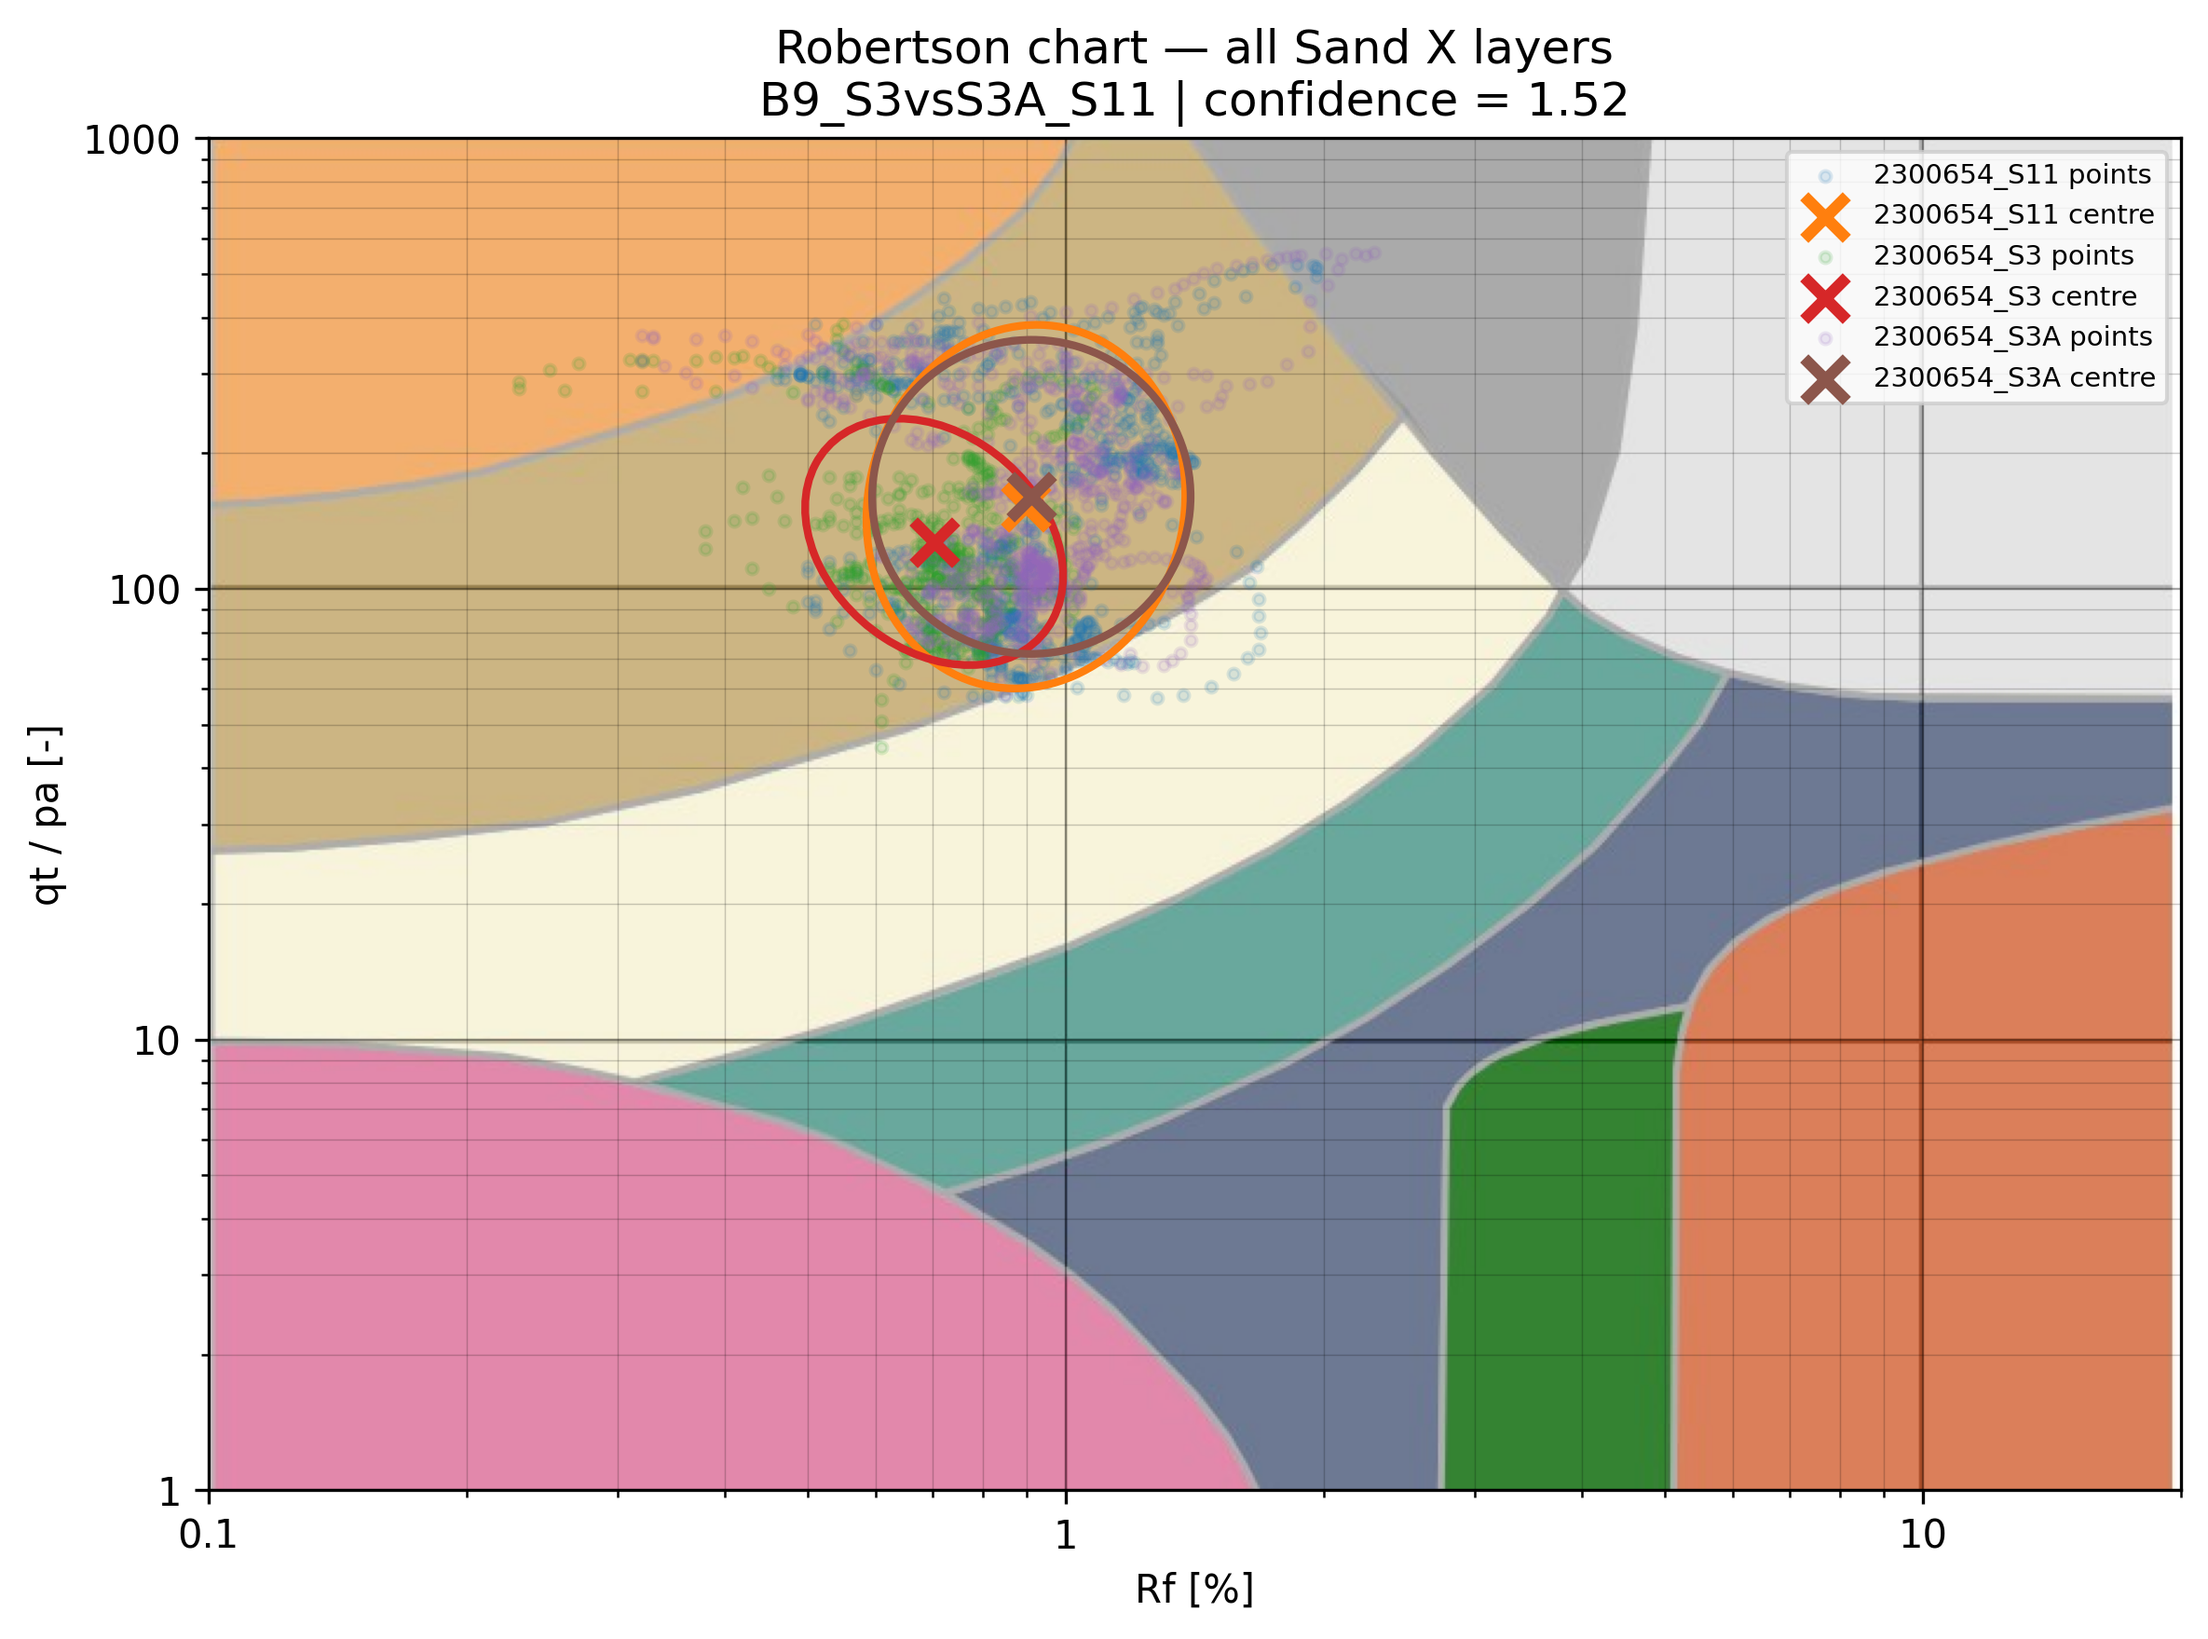
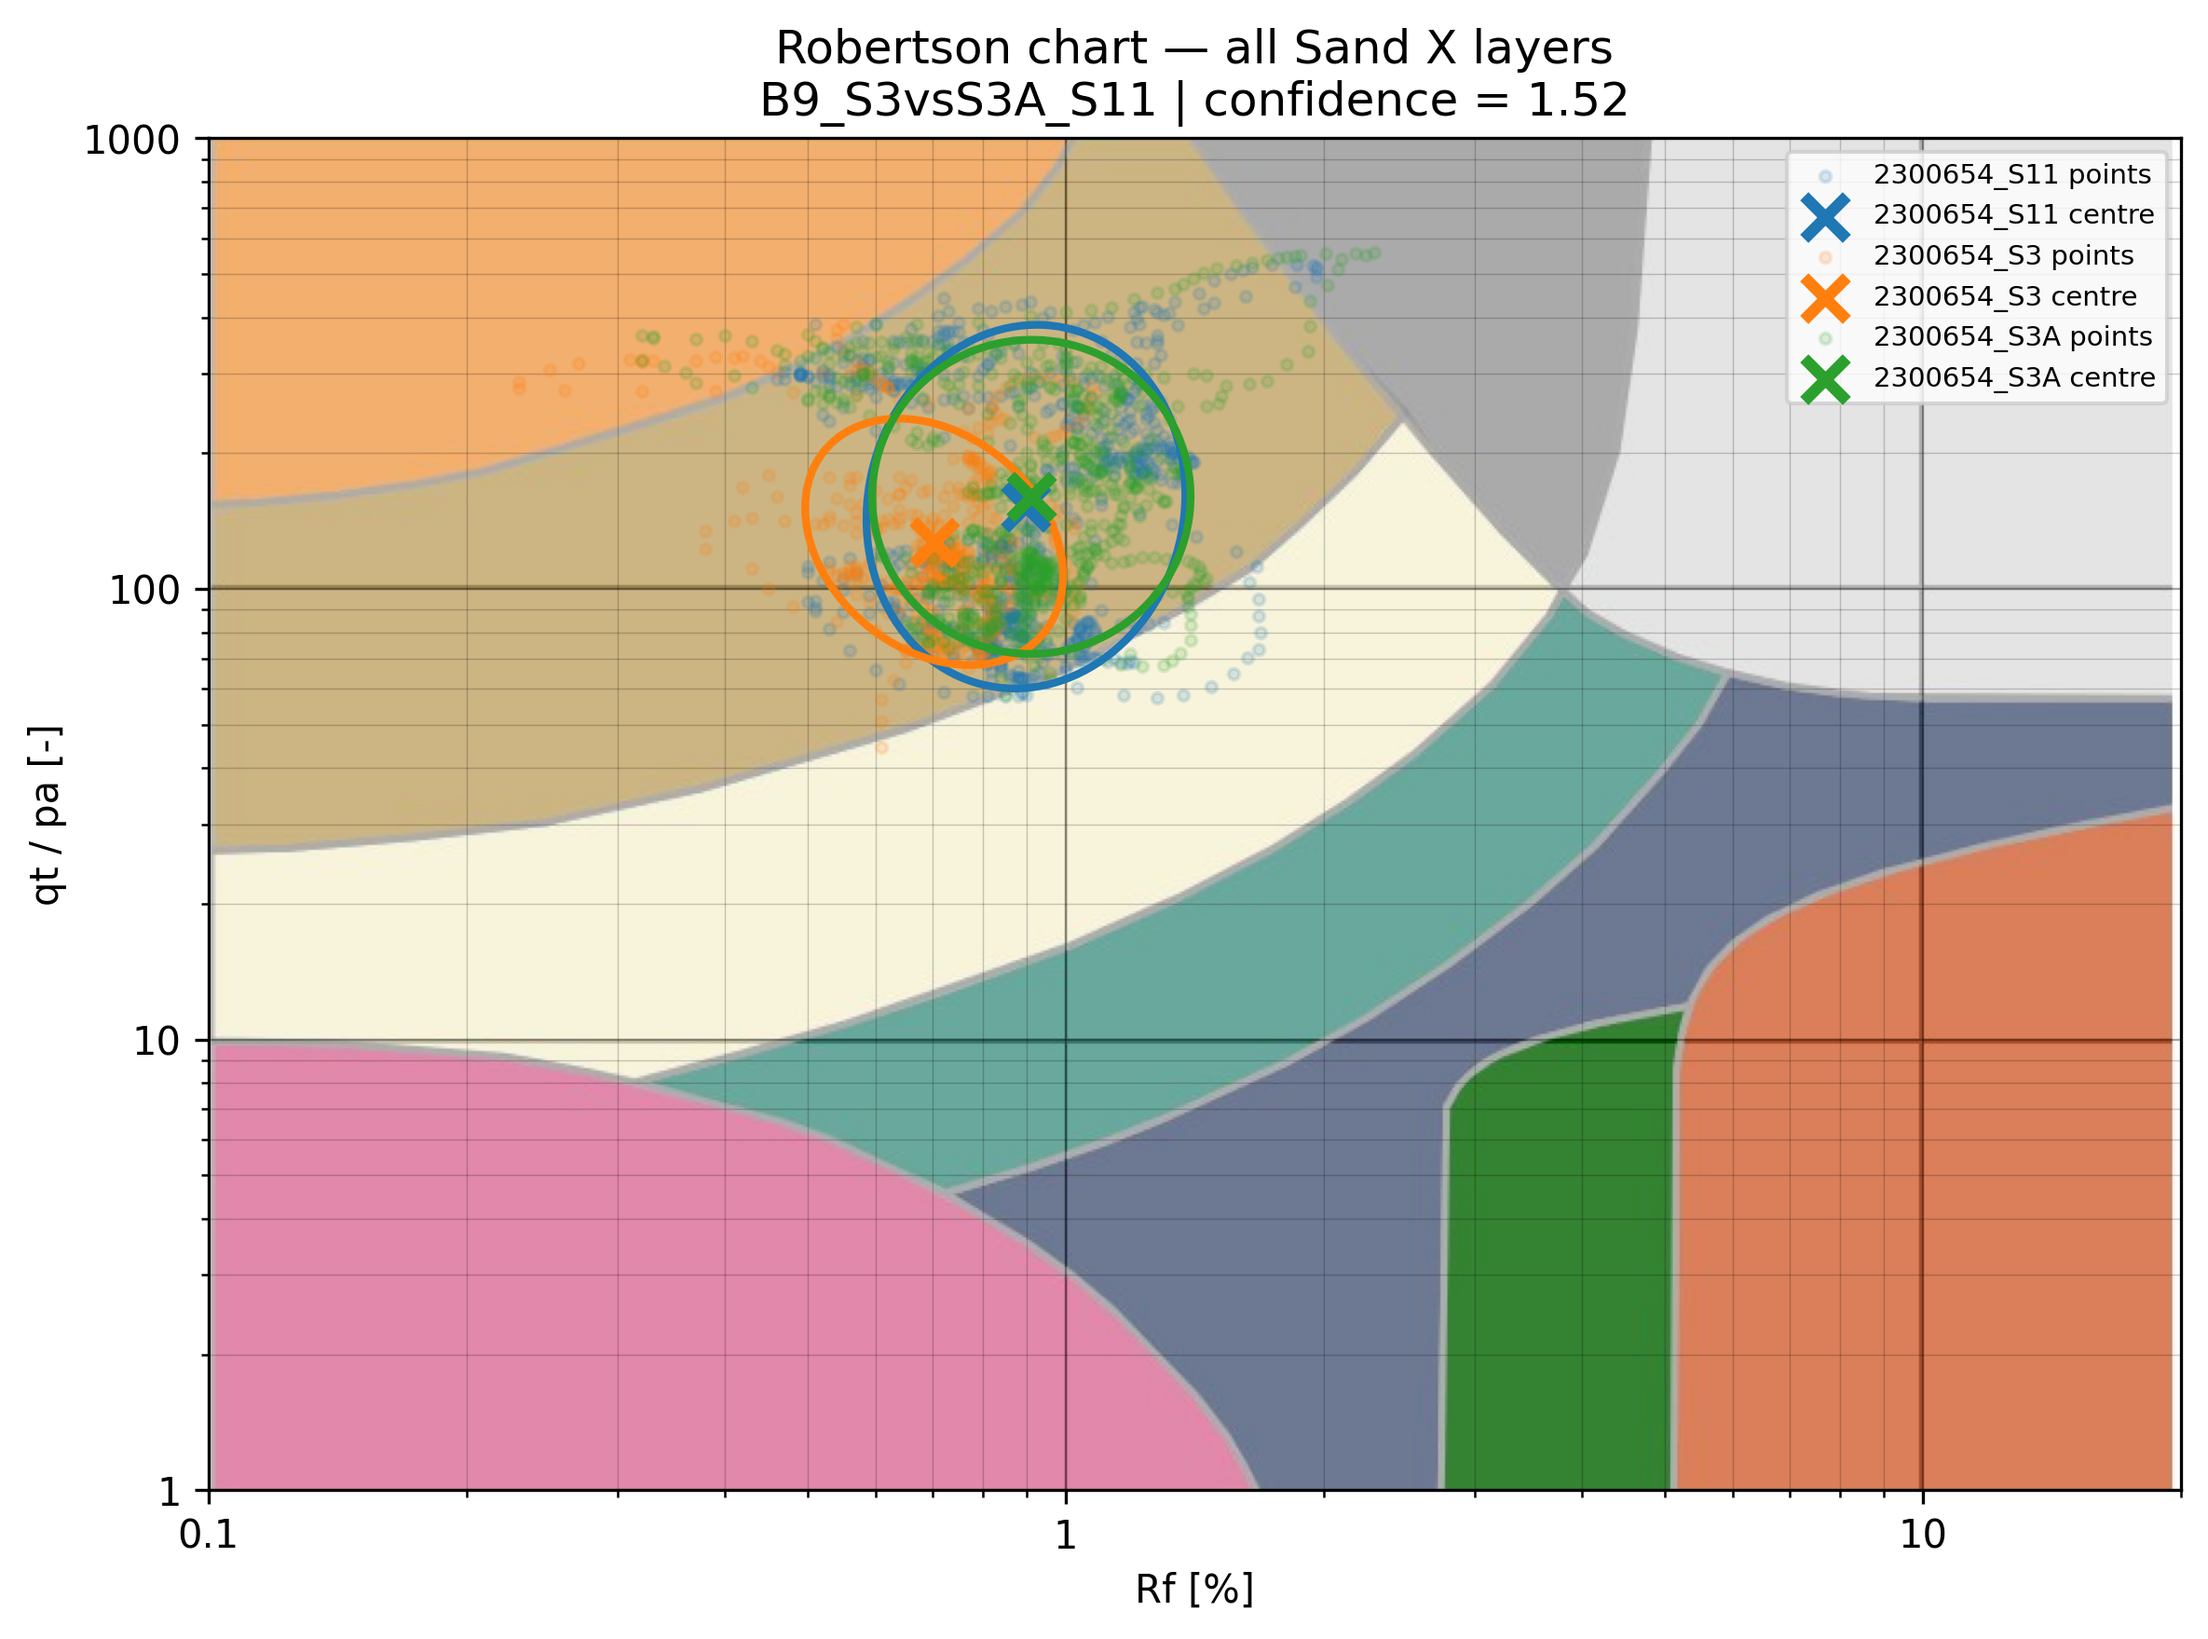
Changed colours Robertson

Changed region(s): [[0.2186, 0.1842, 0.562, 0.4298], [0.8118, 0.1228, 0.843, 0.2456], [0.5308, 0.1535, 0.6245, 0.1842]]

diff --git a/ZZ_Zwolle_Wezep/batch_robertson_sand_charts.py b/ZZ_Zwolle_Wezep/batch_robertson_sand_charts.py
@@ -36,11 +36,30 @@ OUTPUT_FOLDER_NAME = "robertson_charts"
 # one classified_points.csv somewhere below it.
 BOREHOLE_NAME_CONTAINS = "vs"
 
-# Plot appearance.
+# =============================================================================
+# Plot appearance
+# =============================================================================
 POINT_SIZE = 8
 POINT_ALPHA = 0.15
 ELLIPSE_LINEWIDTH = 2.0
 CENTRE_SIZE = 120
+
+# Fixed colour list so each CPT gets its own colour.
+# Points, centre marker, and ellipse will all use the same CPT colour.
+CPT_COLOURS = [
+    "#1f77b4",  # blue
+    "#ff7f0e",  # orange
+    "#2ca02c",  # green
+    "#d62728",  # red
+    "#9467bd",  # purple
+    "#8c564b",  # brown
+    "#e377c2",  # pink
+    "#7f7f7f",  # grey
+    "#bcbd22",  # olive
+    "#17becf",  # cyan
+    "#003f5c",  # dark blue
+    "#ffa600",  # amber
+]
 
 
 # =============================================================================
@@ -182,38 +201,49 @@ def plot_borehole_robertson_chart(
     stats_rows = []
     plotted_anything = False
 
-    for cpt_folder in cpt_folders:
-        sand_df = load_sand_points(cpt_folder)
+    for cpt_index, cpt_folder in enumerate(cpt_folders):
+        colour = CPT_COLOURS[cpt_index % len(CPT_COLOURS)]
 
-        if sand_df.empty:
-            print(f"Warning: no Sand X points in {cpt_folder}")
+        try:
+            sand_data = load_sand_points(cpt_folder)
+        except Exception as exc:
+            print(f"Warning: could not load {cpt_folder}: {exc}")
             continue
 
-        x = sand_df["log_rf_percent"].to_numpy(dtype=float)
-        y = sand_df["log_qt_over_pa"].to_numpy(dtype=float)
+        if sand_data.empty:
+            print(f"Warning: no Sand X data found in {cpt_folder}")
+            continue
 
-        scatter = ax.scatter(
+        x = sand_data["log_rf_percent"].values
+        y = sand_data["log_qt_over_pa"].values
+
+        # Plot individual points
+        ax.scatter(
             x,
             y,
             s=POINT_SIZE,
             alpha=POINT_ALPHA,
+            color=colour,
             label=f"{cpt_folder.name} points",
             zorder=2,
         )
 
-        centre = ax.scatter(
-            np.mean(x),
-            np.mean(y),
+        # Plot centre
+        x_mean = np.mean(x)
+        y_mean = np.mean(y)
+
+        ax.scatter(
+            x_mean,
+            y_mean,
             s=CENTRE_SIZE,
             marker="x",
             linewidths=3,
+            color=colour,
             label=f"{cpt_folder.name} centre",
             zorder=4,
         )
 
-        # Use the automatically assigned colour for the ellipse.
-        colour = centre.get_edgecolors()[0]
-
+        # Plot covariance / confidence ellipse
         add_covariance_ellipse(
             ax,
             x,
@@ -223,23 +253,23 @@ def plot_borehole_robertson_chart(
             zorder=3,
         )
 
-        sand_layers = sorted(sand_df["layer_id"].dropna().unique())
-
-        stats_rows.append(
-            {
-                "borehole_folder": str(borehole_folder),
-                "cpt_name": cpt_folder.name,
-                "n_points": len(sand_df),
-                "sand_layers": ", ".join(sand_layers),
-                "confidence": confidence,
-                "centre_Rf_percent": 10.0 ** np.mean(x),
-                "centre_qt_over_pa": 10.0 ** np.mean(y),
-                "std_log10_Rf": np.std(x, ddof=1) if len(x) > 1 else np.nan,
-                "std_log10_qt_over_pa": np.std(y, ddof=1) if len(y) > 1 else np.nan,
-            }
-        )
-
         plotted_anything = True
+
+        stats_rows.append({
+            "cpt_name": cpt_folder.name,
+            "n_points": len(sand_data),
+            "centre_rf_percent": 10 ** x_mean,
+            "centre_qt_over_pa": 10 ** y_mean,
+            "std_log10_rf_percent": np.std(x, ddof=1) if len(x) > 1 else np.nan,
+            "std_log10_qt_over_pa": np.std(y, ddof=1) if len(y) > 1 else np.nan,
+        })
+
+        print(
+            f"{cpt_folder.name}: "
+            f"n = {len(sand_data)}, "
+            f"centre Rf = {10**x_mean:.3f} %, "
+            f"centre qt/pa = {10**y_mean:.3f}"
+        )
 
     if not plotted_anything:
         plt.close(fig)
@@ -247,20 +277,30 @@ def plot_borehole_robertson_chart(
         return None
 
     conf_label = str(confidence).replace(".", "p")
+
     title = (
         f"Robertson chart — all Sand X layers\n"
         f"{borehole_folder.name} | confidence = {confidence}"
     )
+
     ax.set_title(title)
     ax.legend(fontsize=7, loc="best")
 
     fig.tight_layout()
 
-    png_path = output_folder / f"{make_safe_filename(borehole_folder.name)}_sand_robertson_conf_{conf_label}.png"
+    png_path = (
+        output_folder
+        / f"{make_safe_filename(borehole_folder.name)}_sand_robertson_conf_{conf_label}.png"
+    )
+
     fig.savefig(png_path, dpi=300, bbox_inches="tight")
     plt.close(fig)
 
-    stats_path = output_folder / f"{make_safe_filename(borehole_folder.name)}_sand_robertson_conf_{conf_label}_stats.csv"
+    stats_path = (
+        output_folder
+        / f"{make_safe_filename(borehole_folder.name)}_sand_robertson_conf_{conf_label}_stats.csv"
+    )
+
     pd.DataFrame(stats_rows).to_csv(stats_path, index=False)
 
     print(f"Saved: {png_path}")
